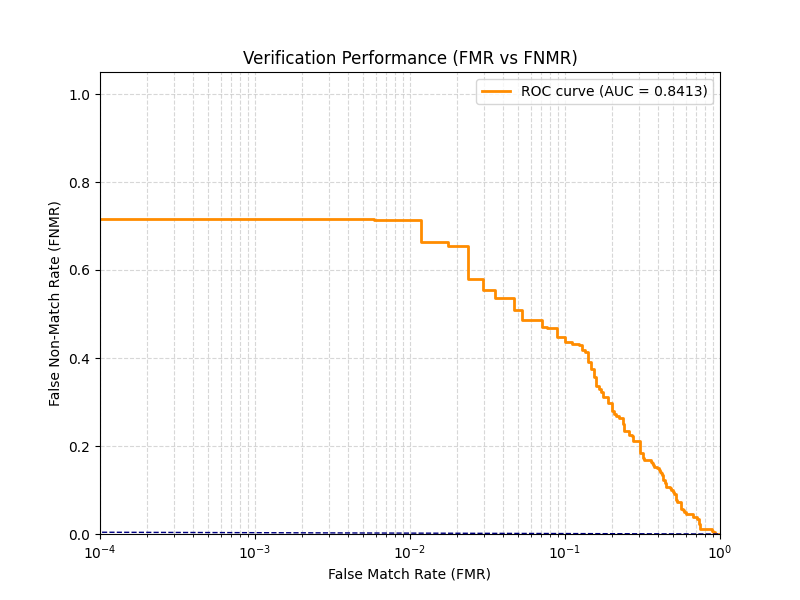
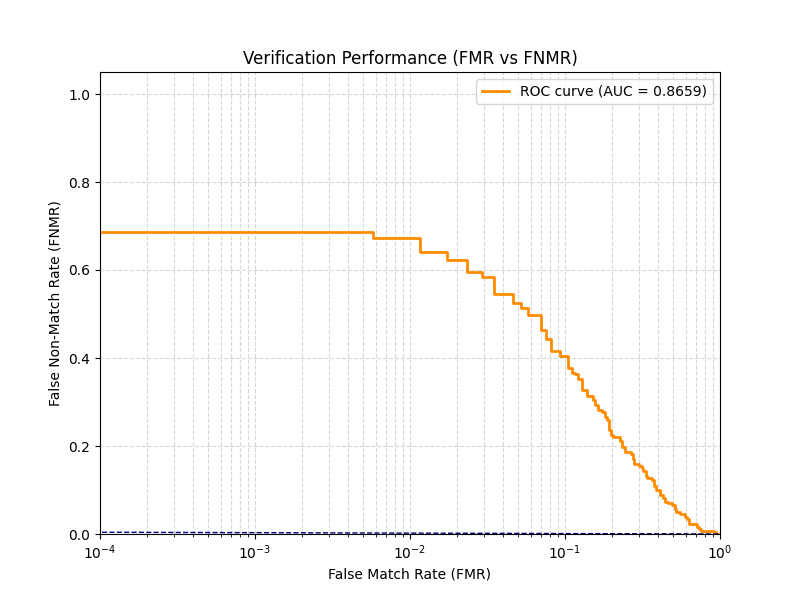
experiment: replace feature z-score with L2 normalization

Changed region(s): [[0.125, 0.36, 0.9062, 0.9], [0.6562, 0.12, 0.7812, 0.18], [0.8125, 0.12, 0.875, 0.18]]

diff --git a/src/FeatureExtraction.py b/src/FeatureExtraction.py
@@ -29,8 +29,8 @@ def extract_features(enhanced_img: np.ndarray, config=None) -> np.ndarray:
 
     features = []
 
-    for i in range(0, 48, 8):
-        for j in range(0, 512, 8):
+    for i in range(0, roi.shape[0], 8):
+        for j in range(0, roi.shape[1], 8):
             for block in [f1[i:i+8, j:j+8], f2[i:i+8, j:j+8]]:
                 mag = np.abs(block)
                 mean = np.mean(mag)
@@ -40,7 +40,8 @@ def extract_features(enhanced_img: np.ndarray, config=None) -> np.ndarray:
     features = np.array(features)
 
     # Normalize
-    features = (features - np.mean(features)) / (np.std(features) + 1e-6)
+    norm = np.linalg.norm(features) + 1e-6
+    features = features / norm
 
     return features
 
